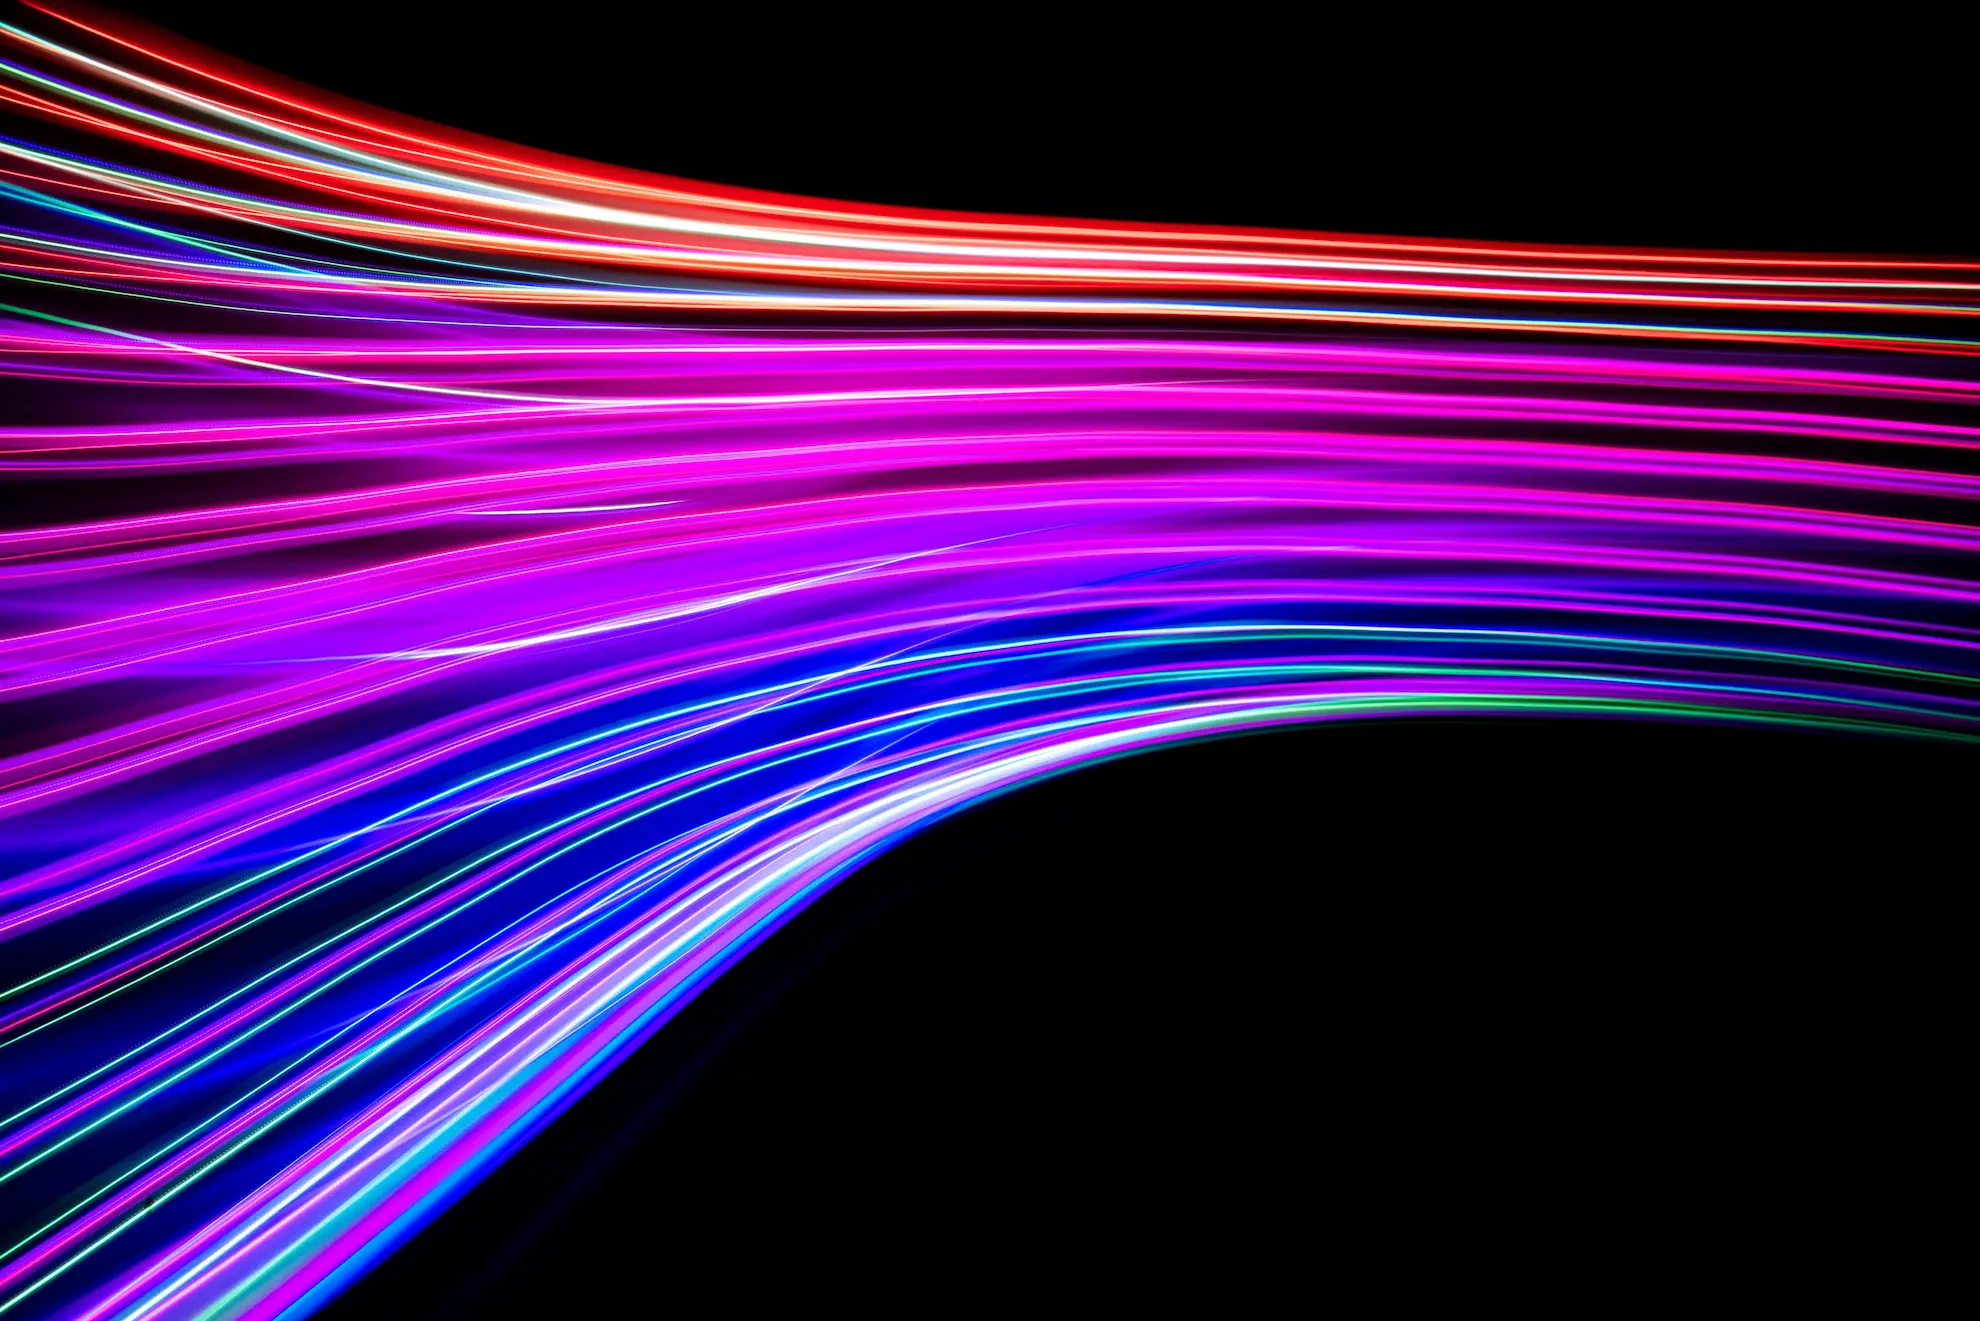
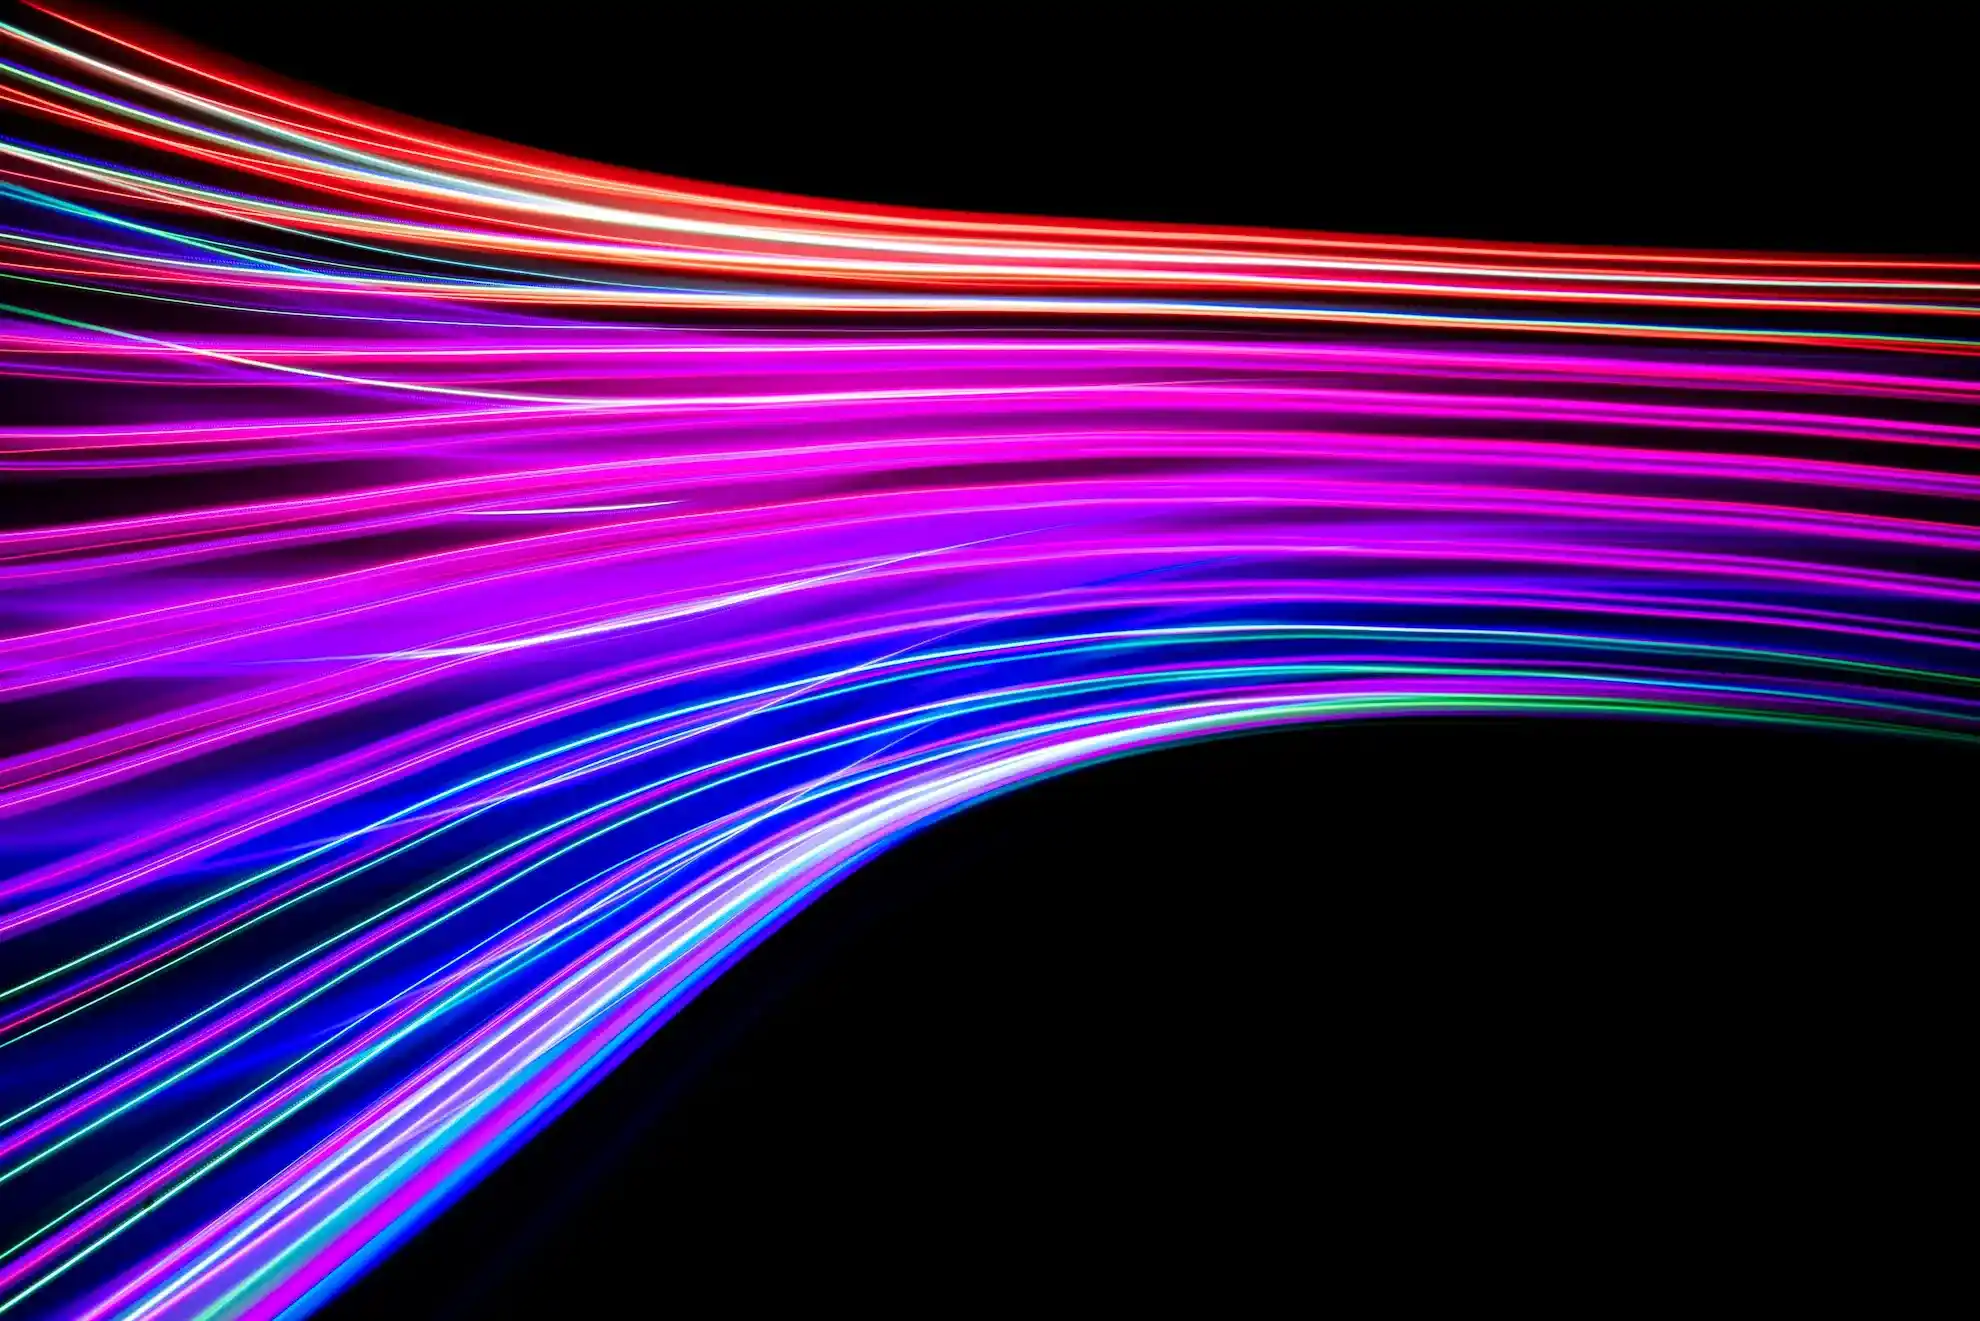
refactor: hero 이미지 수정

diff --git a/src/pages/Home/Home.tsx b/src/pages/Home/Home.tsx
@@ -2,9 +2,10 @@ import { useRef } from 'react';
 import { Link } from 'react-router-dom';
 import classNames from 'classnames/bind';
 
-import heroDesktopImage from '../../assets/images/hero-1980.webp';
-import heroTabletImage from '../../assets/images/hero-768.webp';
-import heroMobileImage from '../../assets/images/hero-375.webp';
+import heroDesktopImageWebp from '../../assets/images/hero-1980.webp';
+import heroTabletImageWebp from '../../assets/images/hero-768.webp';
+import heroMobileImageWebp from '../../assets/images/hero-375.webp';
+import heroImage from '../../assets/images/hero.jpg';
 import trendingGif from '../../assets/images/trending.gif';
 import findGif from '../../assets/images/find.gif';
 import freeGif from '../../assets/images/free.gif';
@@ -22,15 +23,10 @@ const Home = () => {
     <>
       <section className={styles.heroSection}>
         <picture>
-          <source
-            type='image/webp'
-            src={heroDesktopImage}
-            srcSet={`
-							${heroMobileImage} 375w,
-							${heroTabletImage} 768w,
-							${heroDesktopImage} 1980w,
-						`}
-          />
+          <source type='image/webp' media='(min-width: 769px)' srcSet={heroDesktopImageWebp} />
+          <source type='image/webp' media='(min-width: 376px)' srcSet={heroTabletImageWebp} />
+          <source type='image/webp' media='(min-width: 0px)' srcSet={heroMobileImageWebp} />
+          <img className={styles.heroImage} src={heroImage} alt='hero' />
         </picture>
         <div className={styles.projectTitle}>
           <h1 className={styles.title}>Memegle</h1>
